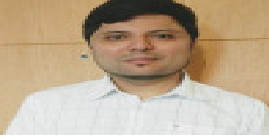
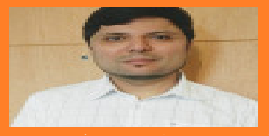
Se cambiaron imagenes de los profes , ahora tienen cuadro

diff --git a/src/Enemy.cpp b/src/Enemy.cpp
@@ -5,7 +5,7 @@
 Enemy::Enemy(int x, int y, int vidas){
 
 _vidas=vidas;
-txtEnemy.loadFromFile("assets/images/bloquenemigo.png");
+txtEnemy.loadFromFile("assets/images/brianamari.png");
 spEnemy.setTexture(txtEnemy);
 spEnemy.setPosition(x*60,y*30);
 spEnemy.setScale(0.2,0.2);
